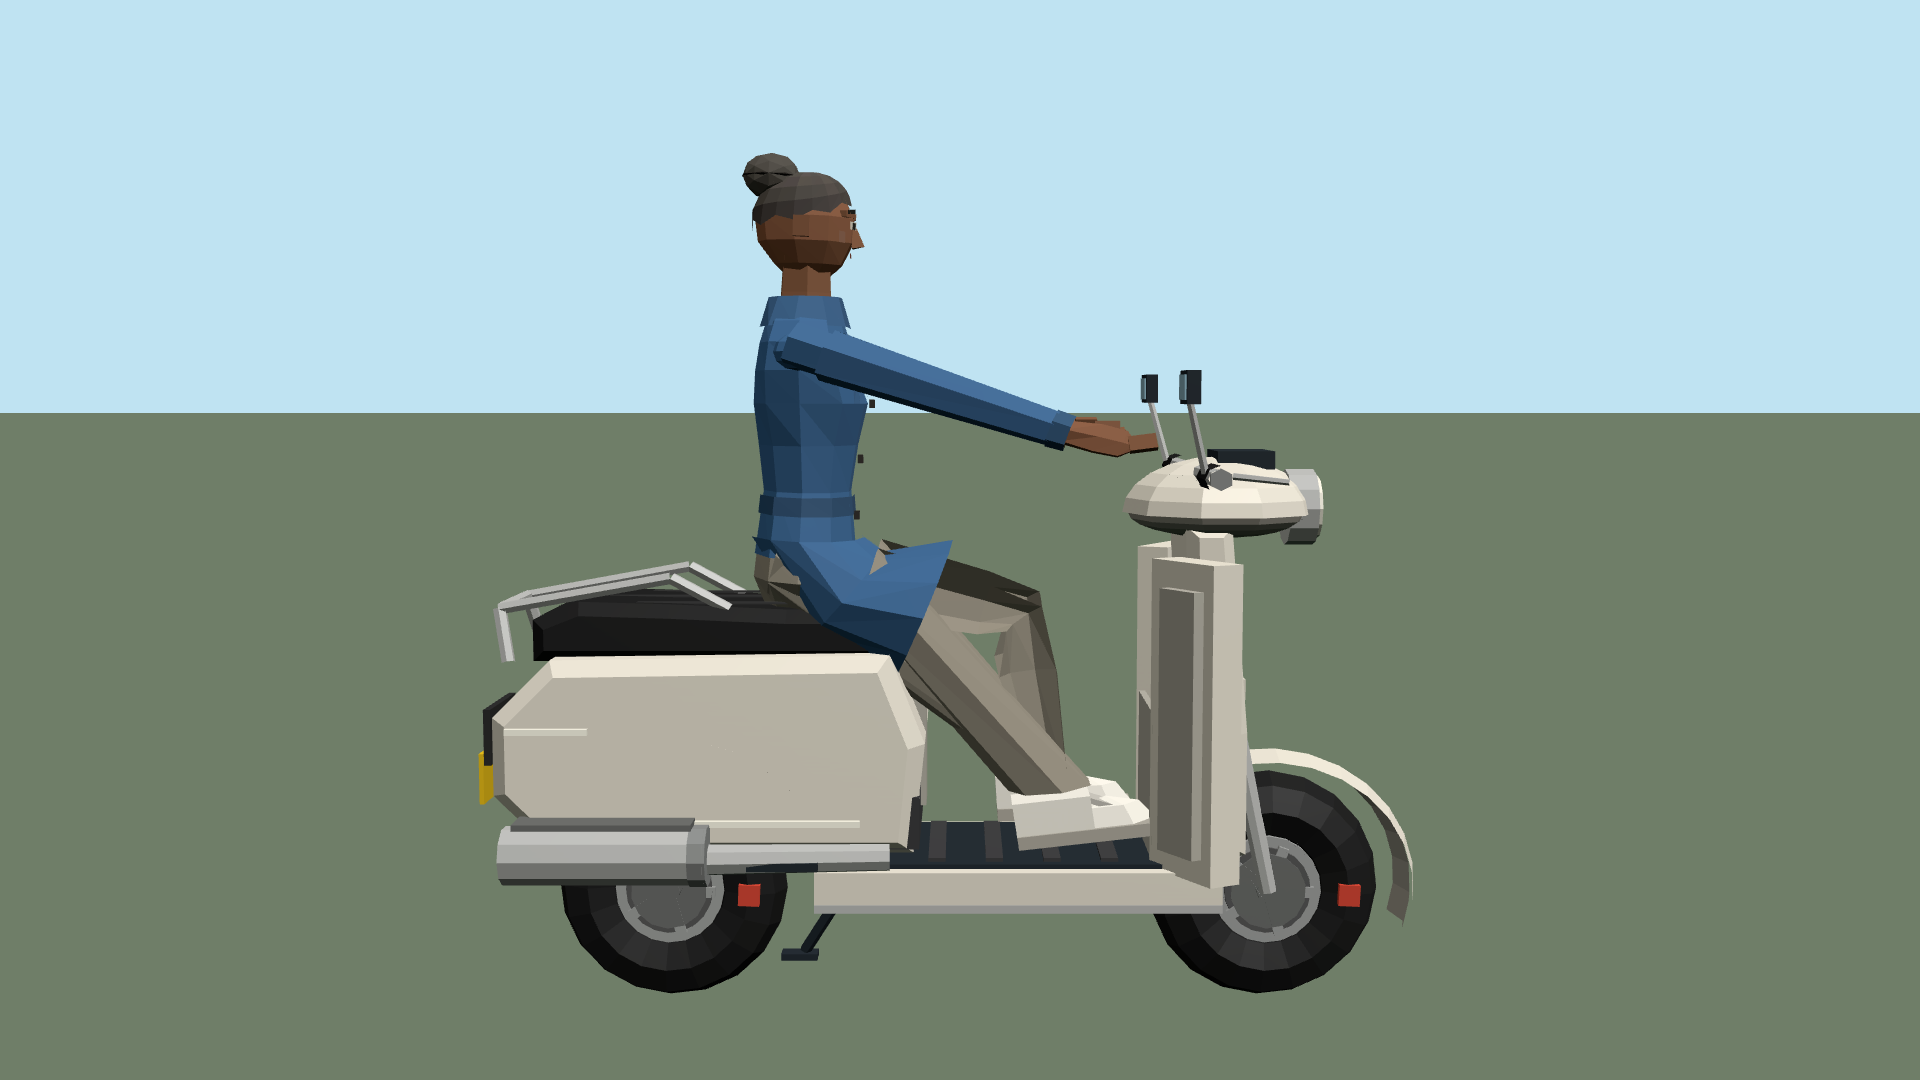
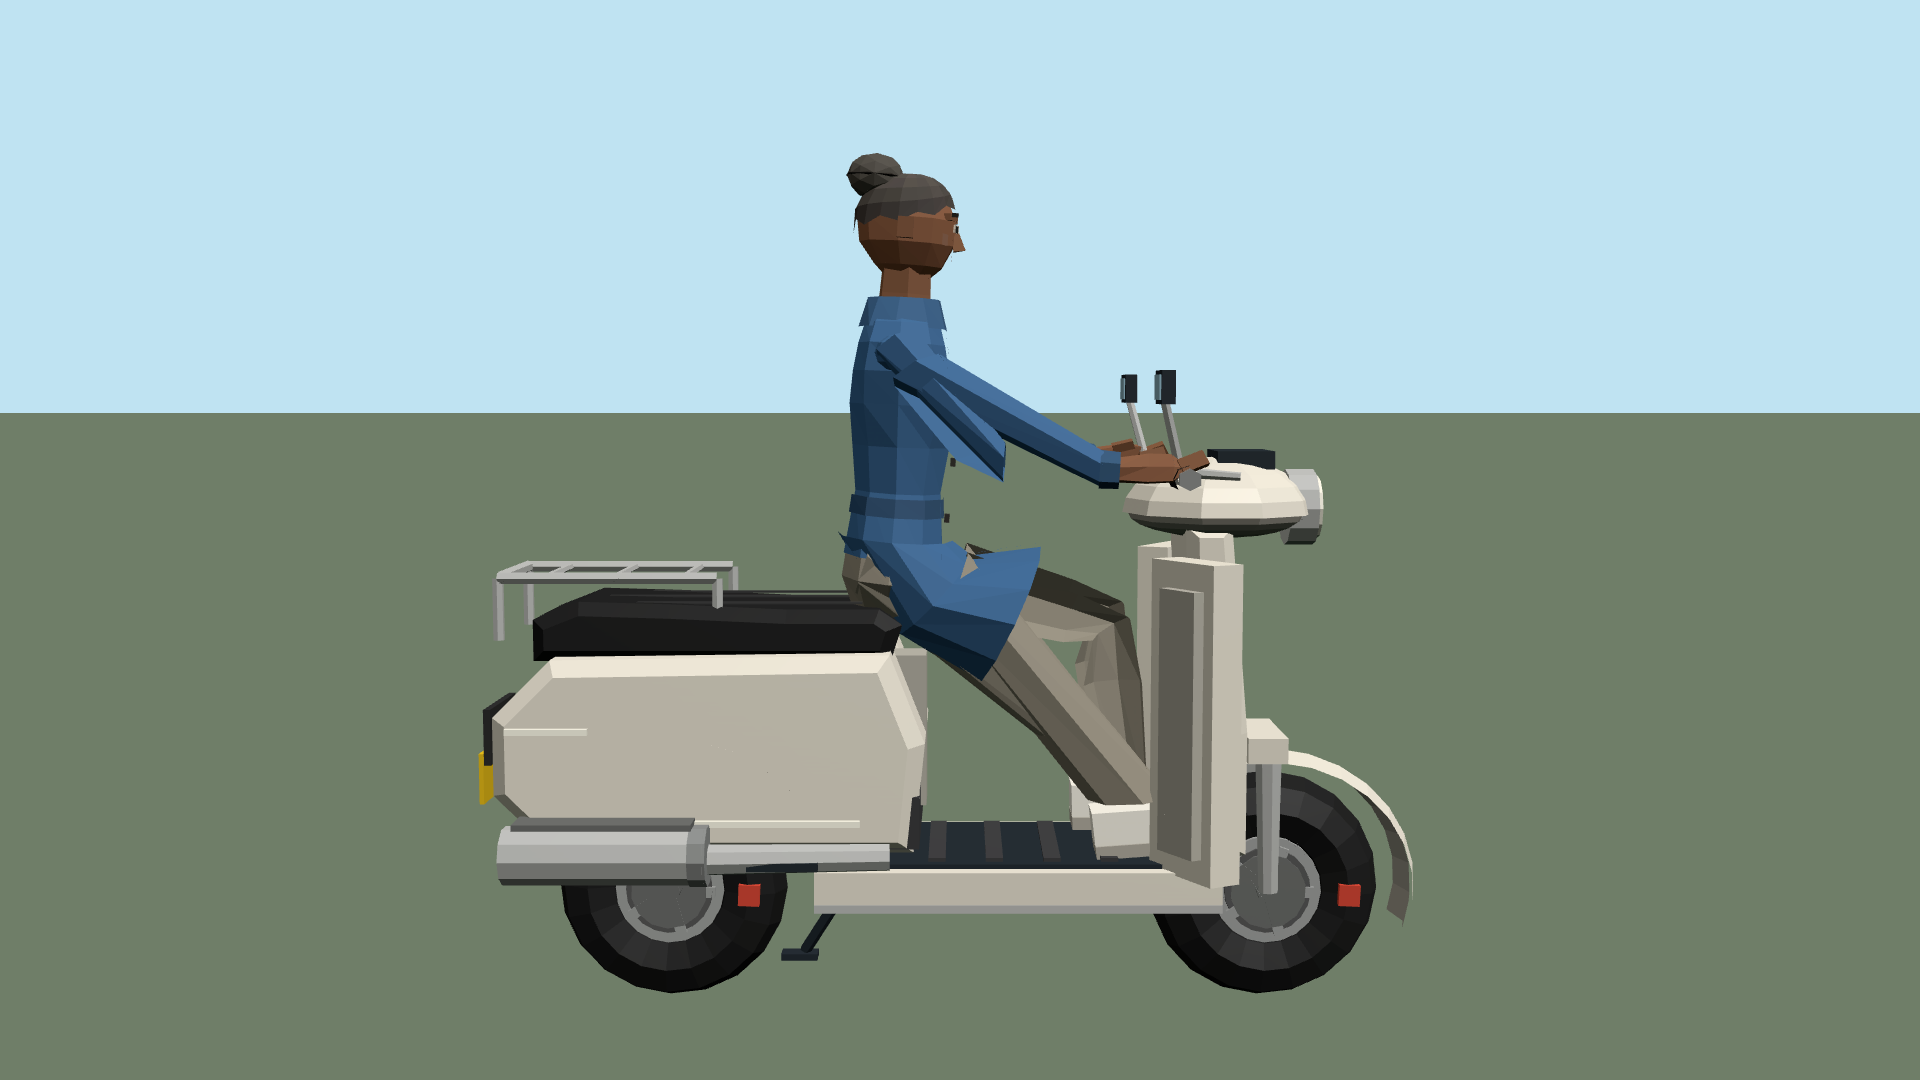
Bromfiets: handen aan de handvatten, vork onder het beenschild vandaan, platte drager

Changed region(s): [[0.25, 0.1222, 0.6875, 0.825]]

diff --git a/game/js/vehicle_scooter.js b/game/js/vehicle_scooter.js
@@ -111,7 +111,6 @@ export function mopedFrameParts(B, color) {
     B.box(0.4, 0.6, s * 0.2, 0.06, 0.6, 0.18, color, 0, 0, s * 0.5, 0);
     B.box(0.37, 0.6, s * 0.24, 0.02, 0.5, 0.1, deep, 0, 0, s * 0.5, 0);
   }
-  B.box(0.34, 0.45, 0, 0.012, 0.3, 0.26, deep);
   // zijkappen achter het zadel: twee afgeronde panelen, een tunnel ertussen, bult voor de motor
   for (const s of [1, -1]) {
     profile(B, [[-0.08, 0.34], [-0.7, 0.34], [-0.8, 0.45], [-0.8, 0.6], [-0.7, 0.71], [-0.12, 0.72], [-0.06, 0.55]], 0.19, 0.035, color, s * 0.125);
@@ -130,11 +129,11 @@ export function mopedFrameParts(B, color) {
   B.box(-0.845, 0.46, 0, 0.008, 0.1, 0.17, PLATE);
   B.box(-0.8, 0.46, 0.0, 0.03, 0.025, 0.03, 0xd8452f);
   for (const s of [1, -1]) {
-    tubeAt(B, [-0.8, 0.8, s * 0.11], [-0.5, 0.86, s * 0.12], 0.012, 0.012, CHROME, 6);
-    tubeAt(B, [-0.5, 0.86, s * 0.12], [-0.4, 0.8, s * 0.12], 0.012, 0.012, CHROME, 6);
-    tubeAt(B, [-0.78, 0.7, s * 0.14], [-0.8, 0.8, s * 0.11], 0.012, 0.012, CHROME, 6);
+    tubeAt(B, [-0.8, 0.86, s * 0.12], [-0.42, 0.86, s * 0.12], 0.012, 0.012, CHROME, 6);
+    for (const x of [-0.8, -0.42]) tubeAt(B, [x, 0.86, s * 0.12], [x, 0.74, s * 0.12], 0.01, 0.01, CHROME, 6);
   }
-  tubeAt(B, [-0.8, 0.8, -0.11], [-0.8, 0.8, 0.11], 0.012, 0.012, CHROME, 6);
+  tubeAt(B, [-0.8, 0.86, -0.12], [-0.8, 0.86, 0.12], 0.012, 0.012, CHROME, 6);
+  for (const x of [-0.72, -0.6, -0.48]) tubeAt(B, [x, 0.86, -0.12], [x, 0.86, 0.12], 0.007, 0.007, CHROME, 5);
   // uitlaat met demper rechts, schokdemper achter, standaard en passagiersrustjes
   tubeAt(B, [-0.12, 0.34, 0.22], [-0.45, 0.34, 0.24], 0.026, 0.03, CHROME, 8);
   cyl(B, -0.6, 0.35, 0.245, 0.055, 0.34, CHROME, 10, 'x');
@@ -157,9 +156,9 @@ export function mopedSteerParts(B, color, px) {
   const box = (x, y, z, a, b, c, col, g = 0, rz = 0) => B.box(x - px, y, z, a, b, c, col, g, 0, 0, rz);
   // stuurkolom, vork met twee poten, remtrommel, afgeronde stuurkap met koplamp en meterkast
   T([0.46, 0.7, 0], [0.42, 1.04, 0], 0.032, 0.03, DARK, 8);
-  T([0.47, 0.64, 0.07], [0.55, 0.23, 0.065], 0.02, 0.016, CHROME, 8);
-  T([0.47, 0.64, -0.07], [0.55, 0.23, -0.065], 0.02, 0.016, CHROME, 8);
-  box(0.47, 0.64, 0, 0.06, 0.04, 0.2, color);
+  T([0.545, 0.5, 0.08], [0.55, 0.23, 0.065], 0.024, 0.018, CHROME, 8);
+  T([0.545, 0.5, -0.08], [0.55, 0.23, -0.065], 0.024, 0.018, CHROME, 8);
+  box(0.54, 0.52, 0, 0.07, 0.05, 0.22, color);
   cyl(B, 0.55 - px, 0.23, 0, 0.1, 0.08, 0x3a3b3e, 12);
   arcStrip(B, 0.55 - px, 0.23, 0.275, 0.13, -0.3, 1.95, 10, color);
   B.geo(new THREE.SphereGeometry(1, 10, 6, 0, Math.PI * 2, 0, Math.PI / 2), composeMatrix(0.46 - px, 0.98, 0, 0, 0, 0, 0.17, 0.11, 0.2), color);
@@ -170,16 +169,16 @@ export function mopedSteerParts(B, color, px) {
   box(0.5, 1.085, 0, 0.1, 0.035, 0.15, DARK);
   box(0.46, 1.1, 0, 0.012, 0.02, 0.1, 0x5fd0e0, G_LAMP);
   // stuurstang, handvatten, hendels en spiegels
-  T([0.42, 1.06, -0.32], [0.42, 1.06, 0.32], 0.017, 0.017, CHROME, 8);
+  T([0.37, 1.06, -0.32], [0.37, 1.06, 0.32], 0.017, 0.017, CHROME, 8);
   for (const s of [1, -1]) {
-    T([0.42, 1.06, s * 0.22], [0.42, 1.06, s * 0.34], 0.025, 0.025, RUBBER, 8);
-    cyl(B, 0.42 - px, 1.06, s * 0.345, 0.02, 0.01, METAL, 6);
-    T([0.46, 1.06, s * 0.2], [0.55, 1.05, s * 0.23], 0.007, 0.006, CHROME, 5);
-    T([0.4, 1.07, s * 0.3], [0.37, 1.2, s * 0.33], 0.007, 0.006, CHROME, 5);
-    box(0.37, 1.225, s * 0.34, 0.022, 0.06, 0.1, DARK);
-    box(0.358, 1.225, s * 0.34, 0.004, 0.045, 0.08, 0x9fb4c0);
+    T([0.37, 1.06, s * 0.22], [0.37, 1.06, s * 0.34], 0.025, 0.025, RUBBER, 8);
+    cyl(B, 0.37 - px, 1.06, s * 0.345, 0.02, 0.01, METAL, 6);
+    T([0.4, 1.065, s * 0.2], [0.47, 1.06, s * 0.22], 0.01, 0.008, CHROME, 6);
+    T([0.36, 1.07, s * 0.3], [0.33, 1.2, s * 0.33], 0.009, 0.008, CHROME, 6);
+    box(0.33, 1.225, s * 0.34, 0.022, 0.06, 0.1, DARK);
+    box(0.318, 1.225, s * 0.34, 0.004, 0.045, 0.08, 0x9fb4c0);
     box(0.5, 0.99, s * 0.19, 0.02, 0.035, 0.03, AMBER, G_LAMP);
   }
   void lite;
 }
-export const mopedGripSpec = () => ({ x: 0.42, y: 1.06, z: 0.28, px: 0.44 });
+export const mopedGripSpec = () => ({ x: 0.37, y: 1.06, z: 0.28, px: 0.44 });

diff --git a/game/js/models3d_vehicles.js b/game/js/models3d_vehicles.js
@@ -2798,7 +2798,7 @@ function buildMopedMesh(v) {
   group.userData.spinStep = 0.28;
   const rider = riderFor(v, toHex(v.model.rider, HABBO_PALETTE.roofBlue));
   // op het zadel (heup op 0,8 m), de voeten op de vloerplaat en de handen aan de handvatten van de stuurkap
-  seatScooterRider(rider, -0.34, 0.8, { recline: 0.04, footX: 0.5, footY: -0.5, arms: 'lap' }, 0.04);
+  seatScooterRider(rider, -0.2, 0.8, { recline: 0.04, footX: 0.5, footY: -0.5, arms: 'lap' }, 0.08);
   group.add(rider);
   group.userData.riderMesh = rider;
   group.userData.riderGrip = { ...mopedGripSpec(), x: mopedGripSpec().x };

diff --git a/docs/beeld-24-11/voertuigen-klein/pagina.html b/docs/beeld-24-11/voertuigen-klein/pagina.html
@@ -64,6 +64,7 @@
     schuin: () => ({ p: [R * 1.35, size.y * 0.8 + 0.2, R * 1.5], t: [0, size.y * 0.4, 0] }),
     achter: () => ({ p: [-R * 1.35, size.y * 0.8 + 0.2, R * 1.5], t: [0, size.y * 0.4, 0] }),
     dicht: () => ({ p: [R * 0.7, size.y * 0.55, R * 0.75], t: [len * 0.12, size.y * 0.42, 0], fov: 38 }),
+    laag: () => ({ p: [R * 1.1, size.y * 0.25, R * 0.9], t: [len * 0.2, size.y * 0.2, 0], fov: 40 }),
     hoog: () => ({ p: [R * 0.4, size.y * 2.6 + 1, R * 1.2], t: [0, size.y * 0.2, 0] }),
   };
   window.neem = (weergave) => {
